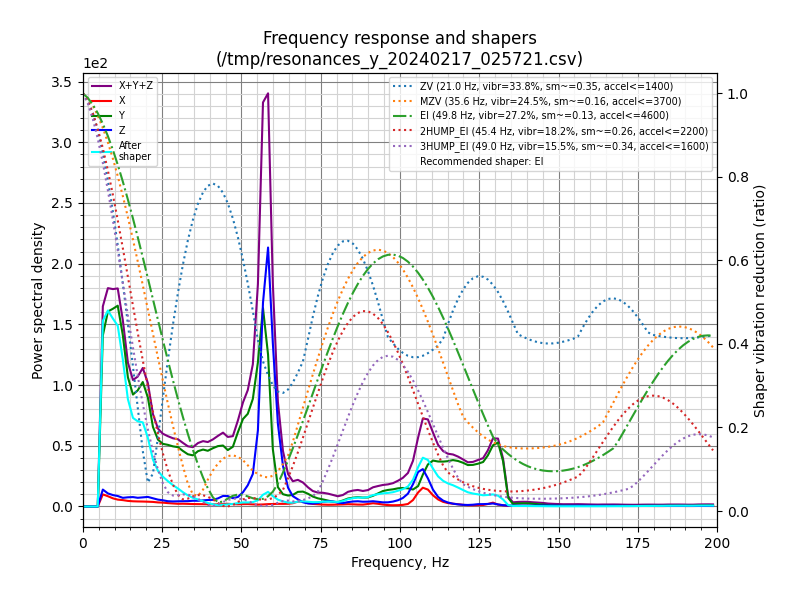
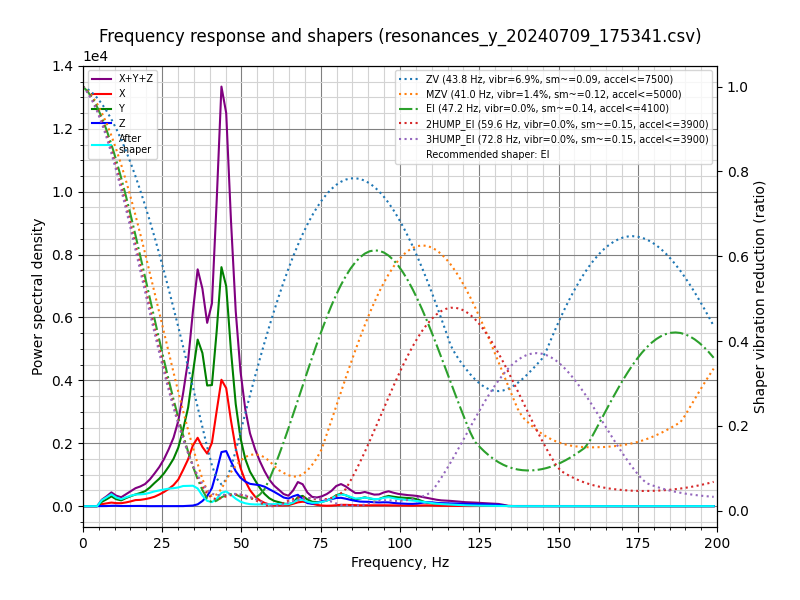
feat: update resonances

Changed region(s): [[0.0312, 0.03, 0.9688, 0.87], [0.9062, 0.69, 0.9375, 0.72]]

diff --git a/hardware/resonances/README.md b/hardware/resonances/README.md
@@ -27,15 +27,15 @@ Recommended shaper is ei @ 126.2 Hz
 ![shaper_calibrate_y](./shaper_calibrate_y.png)
 
 ```
-Fitted shaper 'zv' frequency = 21.0 Hz (vibrations = 33.8%, smoothing ~= 0.349)
-To avoid too much smoothing with 'zv', suggested max_accel <= 1400 mm/sec^2
-Fitted shaper 'mzv' frequency = 35.6 Hz (vibrations = 24.5%, smoothing ~= 0.161)
-To avoid too much smoothing with 'mzv', suggested max_accel <= 3700 mm/sec^2
-Fitted shaper 'ei' frequency = 49.8 Hz (vibrations = 27.2%, smoothing ~= 0.130)
-To avoid too much smoothing with 'ei', suggested max_accel <= 4600 mm/sec^2
-Fitted shaper '2hump_ei' frequency = 45.4 Hz (vibrations = 18.2%, smoothing ~= 0.262)
-To avoid too much smoothing with '2hump_ei', suggested max_accel <= 2200 mm/sec^2
-Fitted shaper '3hump_ei' frequency = 49.0 Hz (vibrations = 15.5%, smoothing ~= 0.341)
-To avoid too much smoothing with '3hump_ei', suggested max_accel <= 1600 mm/sec^2
-Recommended shaper is ei @ 49.8 Hz
+Fitted shaper 'zv' frequency = 43.8 Hz (vibrations = 6.9%, smoothing ~= 0.085)
+To avoid too much smoothing with 'zv', suggested max_accel <= 7500 mm/sec^2
+Fitted shaper 'mzv' frequency = 41.0 Hz (vibrations = 1.4%, smoothing ~= 0.121)
+To avoid too much smoothing with 'mzv', suggested max_accel <= 5000 mm/sec^2
+Fitted shaper 'ei' frequency = 47.2 Hz (vibrations = 0.0%, smoothing ~= 0.145)
+To avoid too much smoothing with 'ei', suggested max_accel <= 4100 mm/sec^2
+Fitted shaper '2hump_ei' frequency = 59.6 Hz (vibrations = 0.0%, smoothing ~= 0.152)
+To avoid too much smoothing with '2hump_ei', suggested max_accel <= 3900 mm/sec^2
+Fitted shaper '3hump_ei' frequency = 72.8 Hz (vibrations = 0.0%, smoothing ~= 0.155)
+To avoid too much smoothing with '3hump_ei', suggested max_accel <= 3900 mm/sec^2
+Recommended shaper is ei @ 47.2 Hz
 ```
